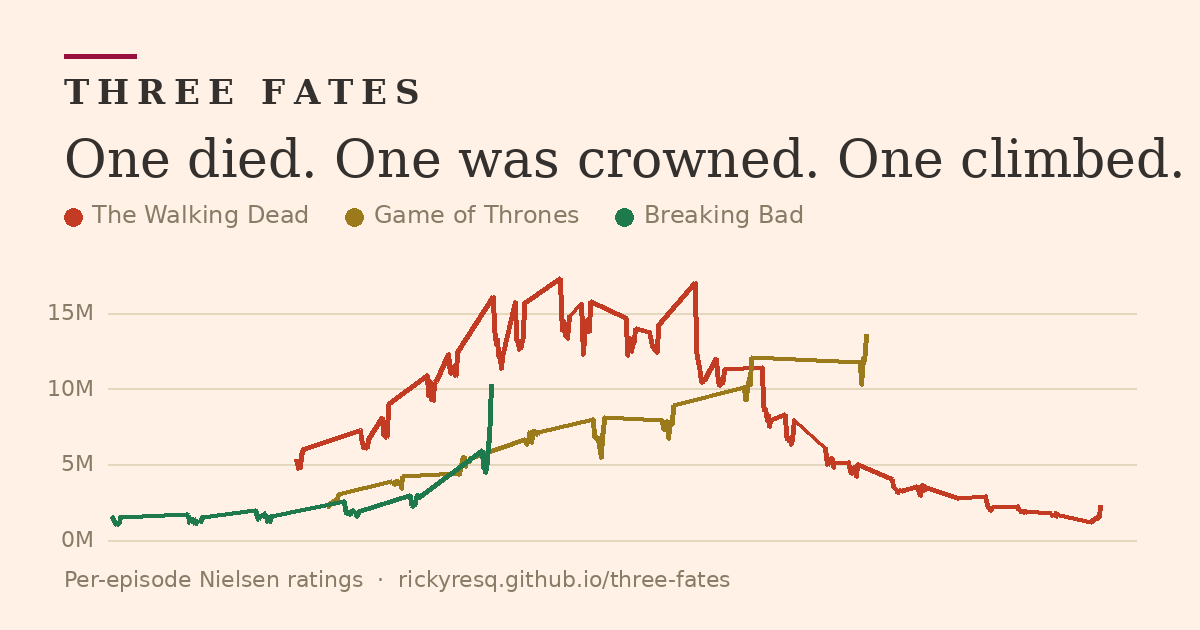
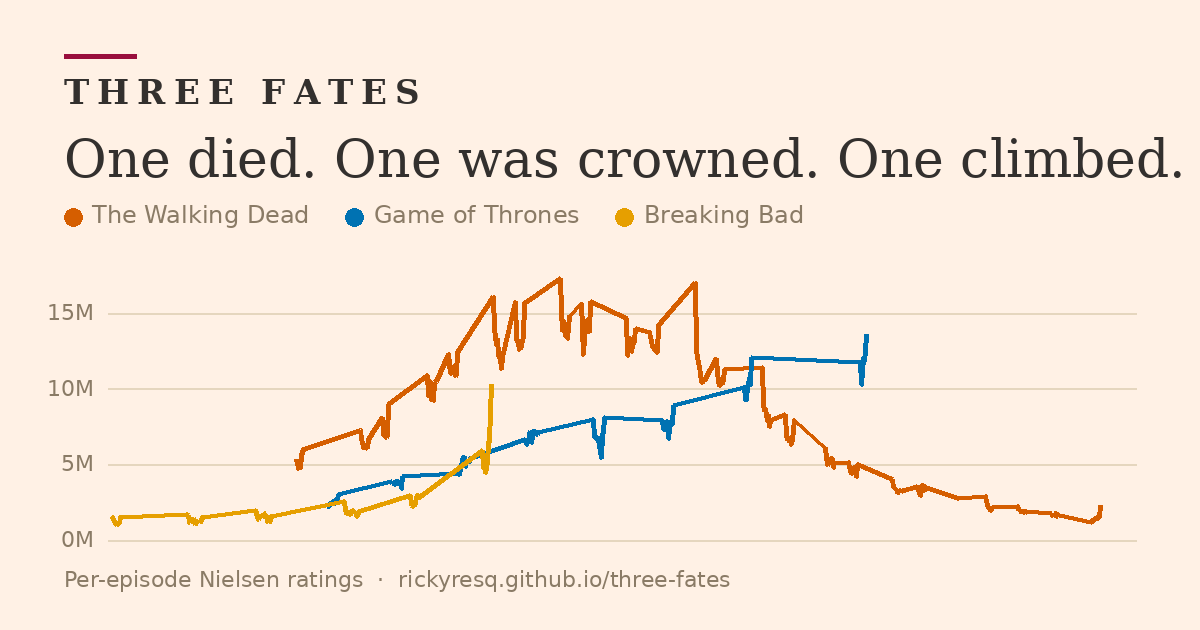
v3.3: colorblind-safe palette (Okabe-Ito) for all charts
TWD vermillion #D55E00, GoT blue #0072B2, BB orange #E69F00,
HotD purple #CC79A7. Old red/green pair was identical under
deuteranopia/protanopia (min pairwise dist 0.046); new min is
0.181 across all CVD types. Stats check passes, JS valid,
share cards rebuilt.

diff --git a/index.html b/index.html
@@ -19,7 +19,7 @@
 <style>
 :root{
   --bg:#FFF1E5; --ink:#33302E; --muted:#5c564d; --faint:#8d867a; --line:#e0d3ba;
-  --twd:#C23B22; --got:#9A7A1A; --bb:#1E7A4C; --hotd:#6C4FA1;
+  --twd:#D55E00; --got:#0072B2; --bb:#E69F00; --hotd:#CC79A7;
   --accent:#990F3D;
   --serif:Georgia,"Iowan Old Style","Palatino Linotype",Palatino,"Times New Roman",serif;
   --sans:-apple-system,BlinkMacSystemFont,"Segoe UI",Roboto,Helvetica,Arial,sans-serif;
@@ -241,7 +241,7 @@ text{font-family:var(--sans)}
 <section class="showsec" id="show-0">
   <div class="secnum">I.</div>
   <div class="showhead">
-    <span class="cdot" style="background:#C23B22"></span>
+    <span class="cdot" style="background:#D55E00"></span>
     <h2>The Walking Dead</h2><span class="badge">Complete</span>
   </div>
   <div class="showmeta">AMC · 2010-2022 · 177 episodes</div>
@@ -260,11 +260,11 @@ text{font-family:var(--sans)}
 <section class="showsec" id="show-1">
   <div class="secnum">II.</div>
   <div class="showhead">
-    <span class="cdot" style="background:#9A7A1A"></span>
+    <span class="cdot" style="background:#0072B2"></span>
     <h2>Game of Thrones</h2><span class="badge">Complete</span>
   </div>
   <div class="showmeta">HBO · 2011-2019 · 73 episodes</div>
-  <div class="secstat"><span class="secstat-num" data-count="4.0" data-fmt="dec1" style="color:#9A7A1A">4.0</span><span class="secstat-txt">IMDb for a finale 13.61M people watched. The most-watched and least-loved episode at once.</span></div>
+  <div class="secstat"><span class="secstat-num" data-count="4.0" data-fmt="dec1" style="color:#0072B2">4.0</span><span class="secstat-txt">IMDb for a finale 13.61M people watched. The most-watched and least-loved episode at once.</span></div>
   <div class="chartwrap">
     <svg class="chart" id="chart-1" viewBox="0 0 1000 420" role="img" aria-label="Game of Thrones per-episode viewership"></svg>
     <div class="scrubwrap"><input type="range" class="scrub" id="scrub-1" min="0" max="72" value="0" step="1" aria-label="Scrub episodes"><div class="scrubcard" id="scrubcard-1"></div></div>
@@ -279,11 +279,11 @@ text{font-family:var(--sans)}
 <section class="showsec" id="show-2">
   <div class="secnum">III.</div>
   <div class="showhead">
-    <span class="cdot" style="background:#1E7A4C"></span>
+    <span class="cdot" style="background:#E69F00"></span>
     <h2>Breaking Bad</h2><span class="badge">Complete</span>
   </div>
   <div class="showmeta">AMC · 2008-2013 · 62 episodes</div>
-  <div class="secstat"><span class="secstat-num" data-count="7.3" data-fmt="mult1" style="color:#1E7A4C">7.3×</span><span class="secstat-txt">Premiere to finale: 1.41M → 10.28M. The only ascent.</span></div>
+  <div class="secstat"><span class="secstat-num" data-count="7.3" data-fmt="mult1" style="color:#E69F00">7.3×</span><span class="secstat-txt">Premiere to finale: 1.41M → 10.28M. The only ascent.</span></div>
   <div class="chartwrap">
     <svg class="chart" id="chart-2" viewBox="0 0 1000 420" role="img" aria-label="Breaking Bad per-episode viewership"></svg>
     <div class="scrubwrap"><input type="range" class="scrub" id="scrub-2" min="0" max="61" value="0" step="1" aria-label="Scrub episodes"><div class="scrubcard" id="scrubcard-2"></div></div>
@@ -298,11 +298,11 @@ text{font-family:var(--sans)}
 <section class="showsec" id="show-3">
   <div class="secnum">IV.</div>
   <div class="showhead">
-    <span class="cdot" style="background:#6C4FA1"></span>
+    <span class="cdot" style="background:#CC79A7"></span>
     <h2>House of the Dragon</h2><span class="badge ongoing">Ongoing</span>
   </div>
   <div class="showmeta">HBO · 2022- · 26 episodes</div>
-  <div class="secstat"><span class="secstat-num" data-count="9" data-fmt="intx" style="color:#6C4FA1">9×</span><span class="secstat-txt">S1 premiere: 2.17M linear → 20M total. The streaming era, in one number.</span></div>
+  <div class="secstat"><span class="secstat-num" data-count="9" data-fmt="intx" style="color:#CC79A7">9×</span><span class="secstat-txt">S1 premiere: 2.17M linear → 20M total. The streaming era, in one number.</span></div>
   <div class="chartwrap">
     <svg class="chart" id="chart-3" viewBox="0 0 1000 420" role="img" aria-label="House of the Dragon per-episode viewership"></svg>
     <div class="scrubwrap"><input type="range" class="scrub" id="scrub-3" min="0" max="25" value="0" step="1" aria-label="Scrub episodes"><div class="scrubcard" id="scrubcard-3"></div></div>
@@ -362,8 +362,8 @@ window.addEventListener('scroll',hideTip,{passive:true});
 const VW=1000, VH=520, VL=56, VR=20, VT=70, VB=44;
 const VT0=new Date('2008-01-01').getTime(), VT1=new Date('2023-06-01').getTime();
 const VX=t=>VL+(t-VT0)/(VT1-VT0)*(VW-VL-VR), VY=v=>VT+(1-v/18)*(VH-VT-VB);
-const VSHOWS=[['The Walking Dead','#C23B22','twd'],['Game of Thrones','#9A7A1A','got'],['Breaking Bad','#1E7A4C','bb']];
-const PCOL={'The Walking Dead':'#C23B22','Game of Thrones':'#9A7A1A','Breaking Bad':'#1E7A4C','House of the Dragon':'#6C4FA1'};
+const VSHOWS=[['The Walking Dead','#D55E00','twd'],['Game of Thrones','#0072B2','got'],['Breaking Bad','#E69F00','bb']];
+const PCOL={'The Walking Dead':'#D55E00','Game of Thrones':'#0072B2','Breaking Bad':'#E69F00','House of the Dragon':'#CC79A7'};
 const byName={}; DATA.shows.forEach(s=>byName[s.show]=s);
 const VG={}; let gUnder, gNotes, clipRect, playCursor;
 
@@ -406,9 +406,9 @@ const VG={}; let gUnder, gNotes, clipRect, playCursor;
   });
   // peak annotations (hidden until step 5)
   gNotes=el('g',{id:'v-notes',opacity:0},svg);
-  const notes=[['#C23B22','2014-10-12',17.29,'Peak of cable: 17.29M',18,-14,'start'],
-               ['#1E7A4C','2013-09-29',10.28,'Felina: 10.28M',-8,30,'middle'],
-               ['#9A7A1A','2019-05-19',13.61,'Finale: 13.61M',10,-30,'start']];
+  const notes=[['#D55E00','2014-10-12',17.29,'Peak of cable: 17.29M',18,-14,'start'],
+               ['#E69F00','2013-09-29',10.28,'Felina: 10.28M',-8,30,'middle'],
+               ['#0072B2','2019-05-19',13.61,'Finale: 13.61M',10,-30,'start']];
   notes.forEach(([col,air,v,label,dx,dy,anchor])=>{ const x=VX(new Date(air+'T12:00:00').getTime()), y=VY(v);
     el('circle',{cx:x,cy:y,r:5,fill:col,stroke:'#FFF1E5','stroke-width':2},gNotes);
     el('line',{x1:x,y1:y,x2:x+dx,y2:y+dy,stroke:col,'stroke-width':1,opacity:.75},gNotes);

diff --git a/three-fates.html b/three-fates.html
@@ -19,7 +19,7 @@
 <style>
 :root{
   --bg:#FFF1E5; --ink:#33302E; --muted:#5c564d; --faint:#8d867a; --line:#e0d3ba;
-  --twd:#C23B22; --got:#9A7A1A; --bb:#1E7A4C; --hotd:#6C4FA1;
+  --twd:#D55E00; --got:#0072B2; --bb:#E69F00; --hotd:#CC79A7;
   --accent:#990F3D;
   --serif:Georgia,"Iowan Old Style","Palatino Linotype",Palatino,"Times New Roman",serif;
   --sans:-apple-system,BlinkMacSystemFont,"Segoe UI",Roboto,Helvetica,Arial,sans-serif;
@@ -241,7 +241,7 @@ text{font-family:var(--sans)}
 <section class="showsec" id="show-0">
   <div class="secnum">I.</div>
   <div class="showhead">
-    <span class="cdot" style="background:#C23B22"></span>
+    <span class="cdot" style="background:#D55E00"></span>
     <h2>The Walking Dead</h2><span class="badge">Complete</span>
   </div>
   <div class="showmeta">AMC · 2010-2022 · 177 episodes</div>
@@ -260,11 +260,11 @@ text{font-family:var(--sans)}
 <section class="showsec" id="show-1">
   <div class="secnum">II.</div>
   <div class="showhead">
-    <span class="cdot" style="background:#9A7A1A"></span>
+    <span class="cdot" style="background:#0072B2"></span>
     <h2>Game of Thrones</h2><span class="badge">Complete</span>
   </div>
   <div class="showmeta">HBO · 2011-2019 · 73 episodes</div>
-  <div class="secstat"><span class="secstat-num" data-count="4.0" data-fmt="dec1" style="color:#9A7A1A">4.0</span><span class="secstat-txt">IMDb for a finale 13.61M people watched. The most-watched and least-loved episode at once.</span></div>
+  <div class="secstat"><span class="secstat-num" data-count="4.0" data-fmt="dec1" style="color:#0072B2">4.0</span><span class="secstat-txt">IMDb for a finale 13.61M people watched. The most-watched and least-loved episode at once.</span></div>
   <div class="chartwrap">
     <svg class="chart" id="chart-1" viewBox="0 0 1000 420" role="img" aria-label="Game of Thrones per-episode viewership"></svg>
     <div class="scrubwrap"><input type="range" class="scrub" id="scrub-1" min="0" max="72" value="0" step="1" aria-label="Scrub episodes"><div class="scrubcard" id="scrubcard-1"></div></div>
@@ -279,11 +279,11 @@ text{font-family:var(--sans)}
 <section class="showsec" id="show-2">
   <div class="secnum">III.</div>
   <div class="showhead">
-    <span class="cdot" style="background:#1E7A4C"></span>
+    <span class="cdot" style="background:#E69F00"></span>
     <h2>Breaking Bad</h2><span class="badge">Complete</span>
   </div>
   <div class="showmeta">AMC · 2008-2013 · 62 episodes</div>
-  <div class="secstat"><span class="secstat-num" data-count="7.3" data-fmt="mult1" style="color:#1E7A4C">7.3×</span><span class="secstat-txt">Premiere to finale: 1.41M → 10.28M. The only ascent.</span></div>
+  <div class="secstat"><span class="secstat-num" data-count="7.3" data-fmt="mult1" style="color:#E69F00">7.3×</span><span class="secstat-txt">Premiere to finale: 1.41M → 10.28M. The only ascent.</span></div>
   <div class="chartwrap">
     <svg class="chart" id="chart-2" viewBox="0 0 1000 420" role="img" aria-label="Breaking Bad per-episode viewership"></svg>
     <div class="scrubwrap"><input type="range" class="scrub" id="scrub-2" min="0" max="61" value="0" step="1" aria-label="Scrub episodes"><div class="scrubcard" id="scrubcard-2"></div></div>
@@ -298,11 +298,11 @@ text{font-family:var(--sans)}
 <section class="showsec" id="show-3">
   <div class="secnum">IV.</div>
   <div class="showhead">
-    <span class="cdot" style="background:#6C4FA1"></span>
+    <span class="cdot" style="background:#CC79A7"></span>
     <h2>House of the Dragon</h2><span class="badge ongoing">Ongoing</span>
   </div>
   <div class="showmeta">HBO · 2022- · 26 episodes</div>
-  <div class="secstat"><span class="secstat-num" data-count="9" data-fmt="intx" style="color:#6C4FA1">9×</span><span class="secstat-txt">S1 premiere: 2.17M linear → 20M total. The streaming era, in one number.</span></div>
+  <div class="secstat"><span class="secstat-num" data-count="9" data-fmt="intx" style="color:#CC79A7">9×</span><span class="secstat-txt">S1 premiere: 2.17M linear → 20M total. The streaming era, in one number.</span></div>
   <div class="chartwrap">
     <svg class="chart" id="chart-3" viewBox="0 0 1000 420" role="img" aria-label="House of the Dragon per-episode viewership"></svg>
     <div class="scrubwrap"><input type="range" class="scrub" id="scrub-3" min="0" max="25" value="0" step="1" aria-label="Scrub episodes"><div class="scrubcard" id="scrubcard-3"></div></div>
@@ -362,8 +362,8 @@ window.addEventListener('scroll',hideTip,{passive:true});
 const VW=1000, VH=520, VL=56, VR=20, VT=70, VB=44;
 const VT0=new Date('2008-01-01').getTime(), VT1=new Date('2023-06-01').getTime();
 const VX=t=>VL+(t-VT0)/(VT1-VT0)*(VW-VL-VR), VY=v=>VT+(1-v/18)*(VH-VT-VB);
-const VSHOWS=[['The Walking Dead','#C23B22','twd'],['Game of Thrones','#9A7A1A','got'],['Breaking Bad','#1E7A4C','bb']];
-const PCOL={'The Walking Dead':'#C23B22','Game of Thrones':'#9A7A1A','Breaking Bad':'#1E7A4C','House of the Dragon':'#6C4FA1'};
+const VSHOWS=[['The Walking Dead','#D55E00','twd'],['Game of Thrones','#0072B2','got'],['Breaking Bad','#E69F00','bb']];
+const PCOL={'The Walking Dead':'#D55E00','Game of Thrones':'#0072B2','Breaking Bad':'#E69F00','House of the Dragon':'#CC79A7'};
 const byName={}; DATA.shows.forEach(s=>byName[s.show]=s);
 const VG={}; let gUnder, gNotes, clipRect, playCursor;
 
@@ -406,9 +406,9 @@ const VG={}; let gUnder, gNotes, clipRect, playCursor;
   });
   // peak annotations (hidden until step 5)
   gNotes=el('g',{id:'v-notes',opacity:0},svg);
-  const notes=[['#C23B22','2014-10-12',17.29,'Peak of cable: 17.29M',18,-14,'start'],
-               ['#1E7A4C','2013-09-29',10.28,'Felina: 10.28M',-8,30,'middle'],
-               ['#9A7A1A','2019-05-19',13.61,'Finale: 13.61M',10,-30,'start']];
+  const notes=[['#D55E00','2014-10-12',17.29,'Peak of cable: 17.29M',18,-14,'start'],
+               ['#E69F00','2013-09-29',10.28,'Felina: 10.28M',-8,30,'middle'],
+               ['#0072B2','2019-05-19',13.61,'Finale: 13.61M',10,-30,'start']];
   notes.forEach(([col,air,v,label,dx,dy,anchor])=>{ const x=VX(new Date(air+'T12:00:00').getTime()), y=VY(v);
     el('circle',{cx:x,cy:y,r:5,fill:col,stroke:'#FFF1E5','stroke-width':2},gNotes);
     el('line',{x1:x,y1:y,x2:x+dx,y2:y+dy,stroke:col,'stroke-width':1,opacity:.75},gNotes);

diff --git a/make_share_cards.py b/make_share_cards.py
@@ -8,9 +8,9 @@ INK = (51, 48, 46)
 MUTED = (138, 123, 102)
 LINE = (229, 214, 190)
 CLARET = (153, 15, 61)
-SHOWS = [('The Walking Dead', (194, 59, 34)),
-         ('Game of Thrones', (154, 122, 26)),
-         ('Breaking Bad', (30, 122, 76))]
+SHOWS = [('The Walking Dead', (213, 94, 0)),
+         ('Game of Thrones', (0, 114, 178)),
+         ('Breaking Bad', (230, 159, 0))]
 SHORT = {'The Walking Dead': 'TWD', 'Game of Thrones': 'GoT', 'Breaking Bad': 'BB'}
 
 SERIF = '/usr/share/fonts/truetype/dejavu/DejaVuSerif.ttf'
